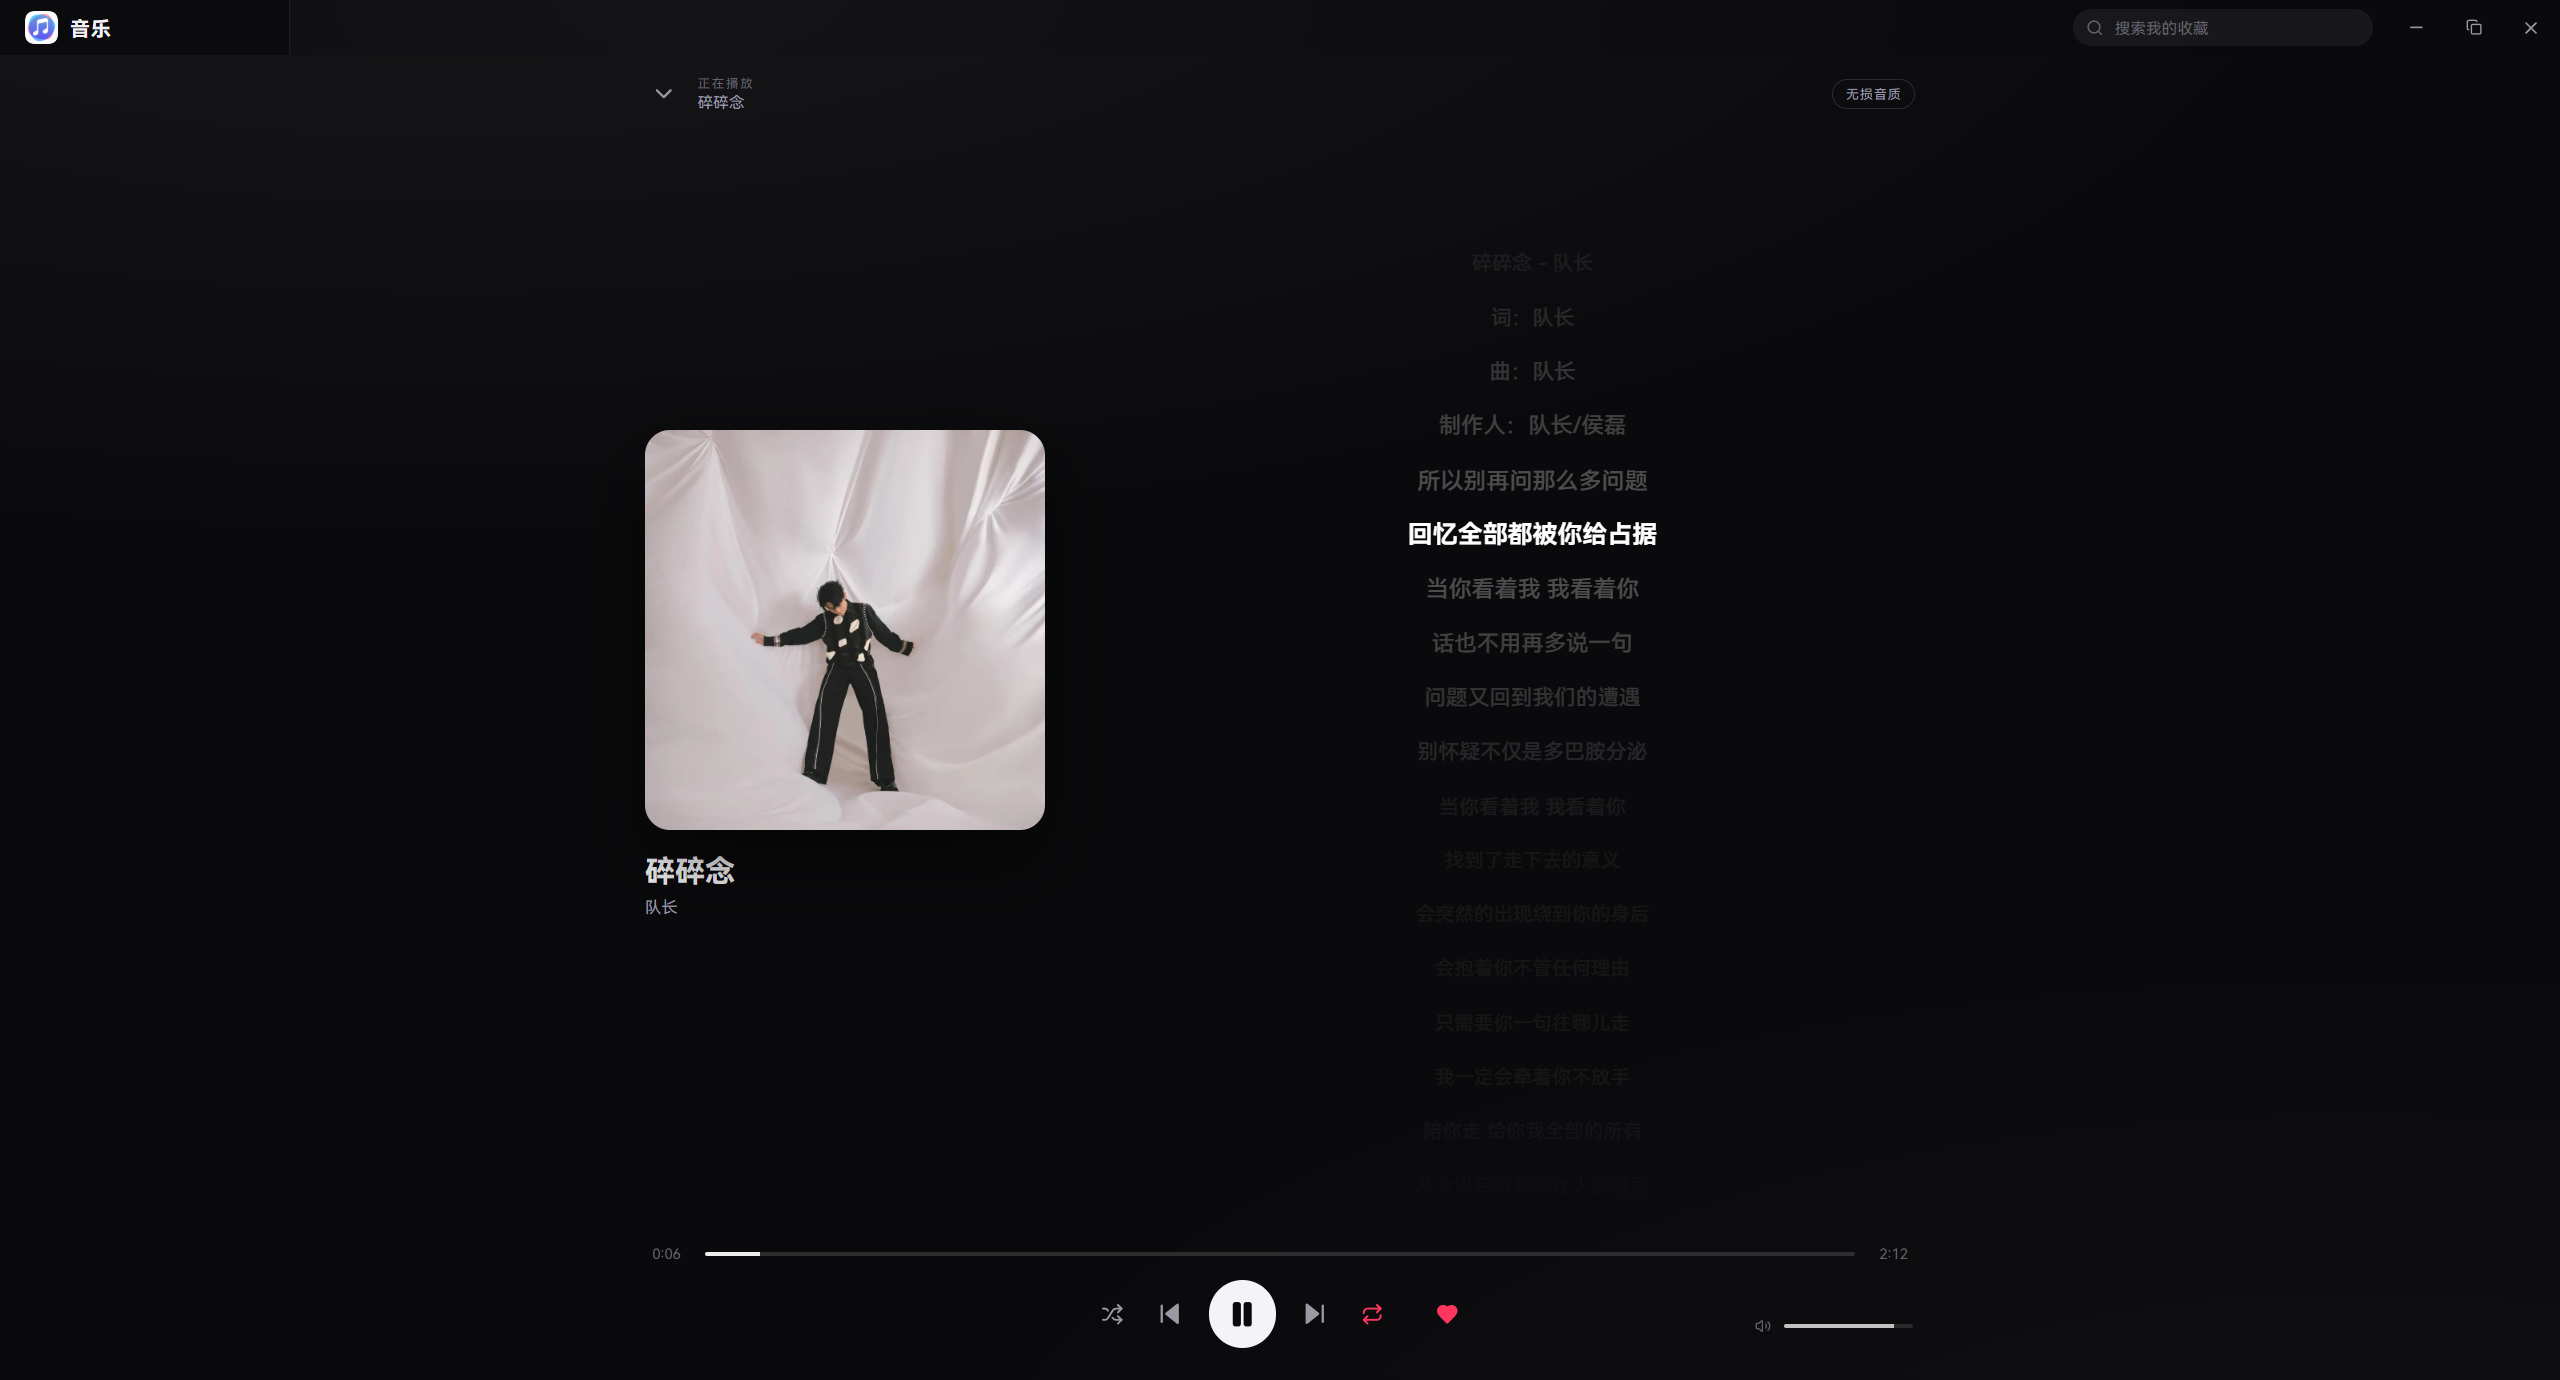
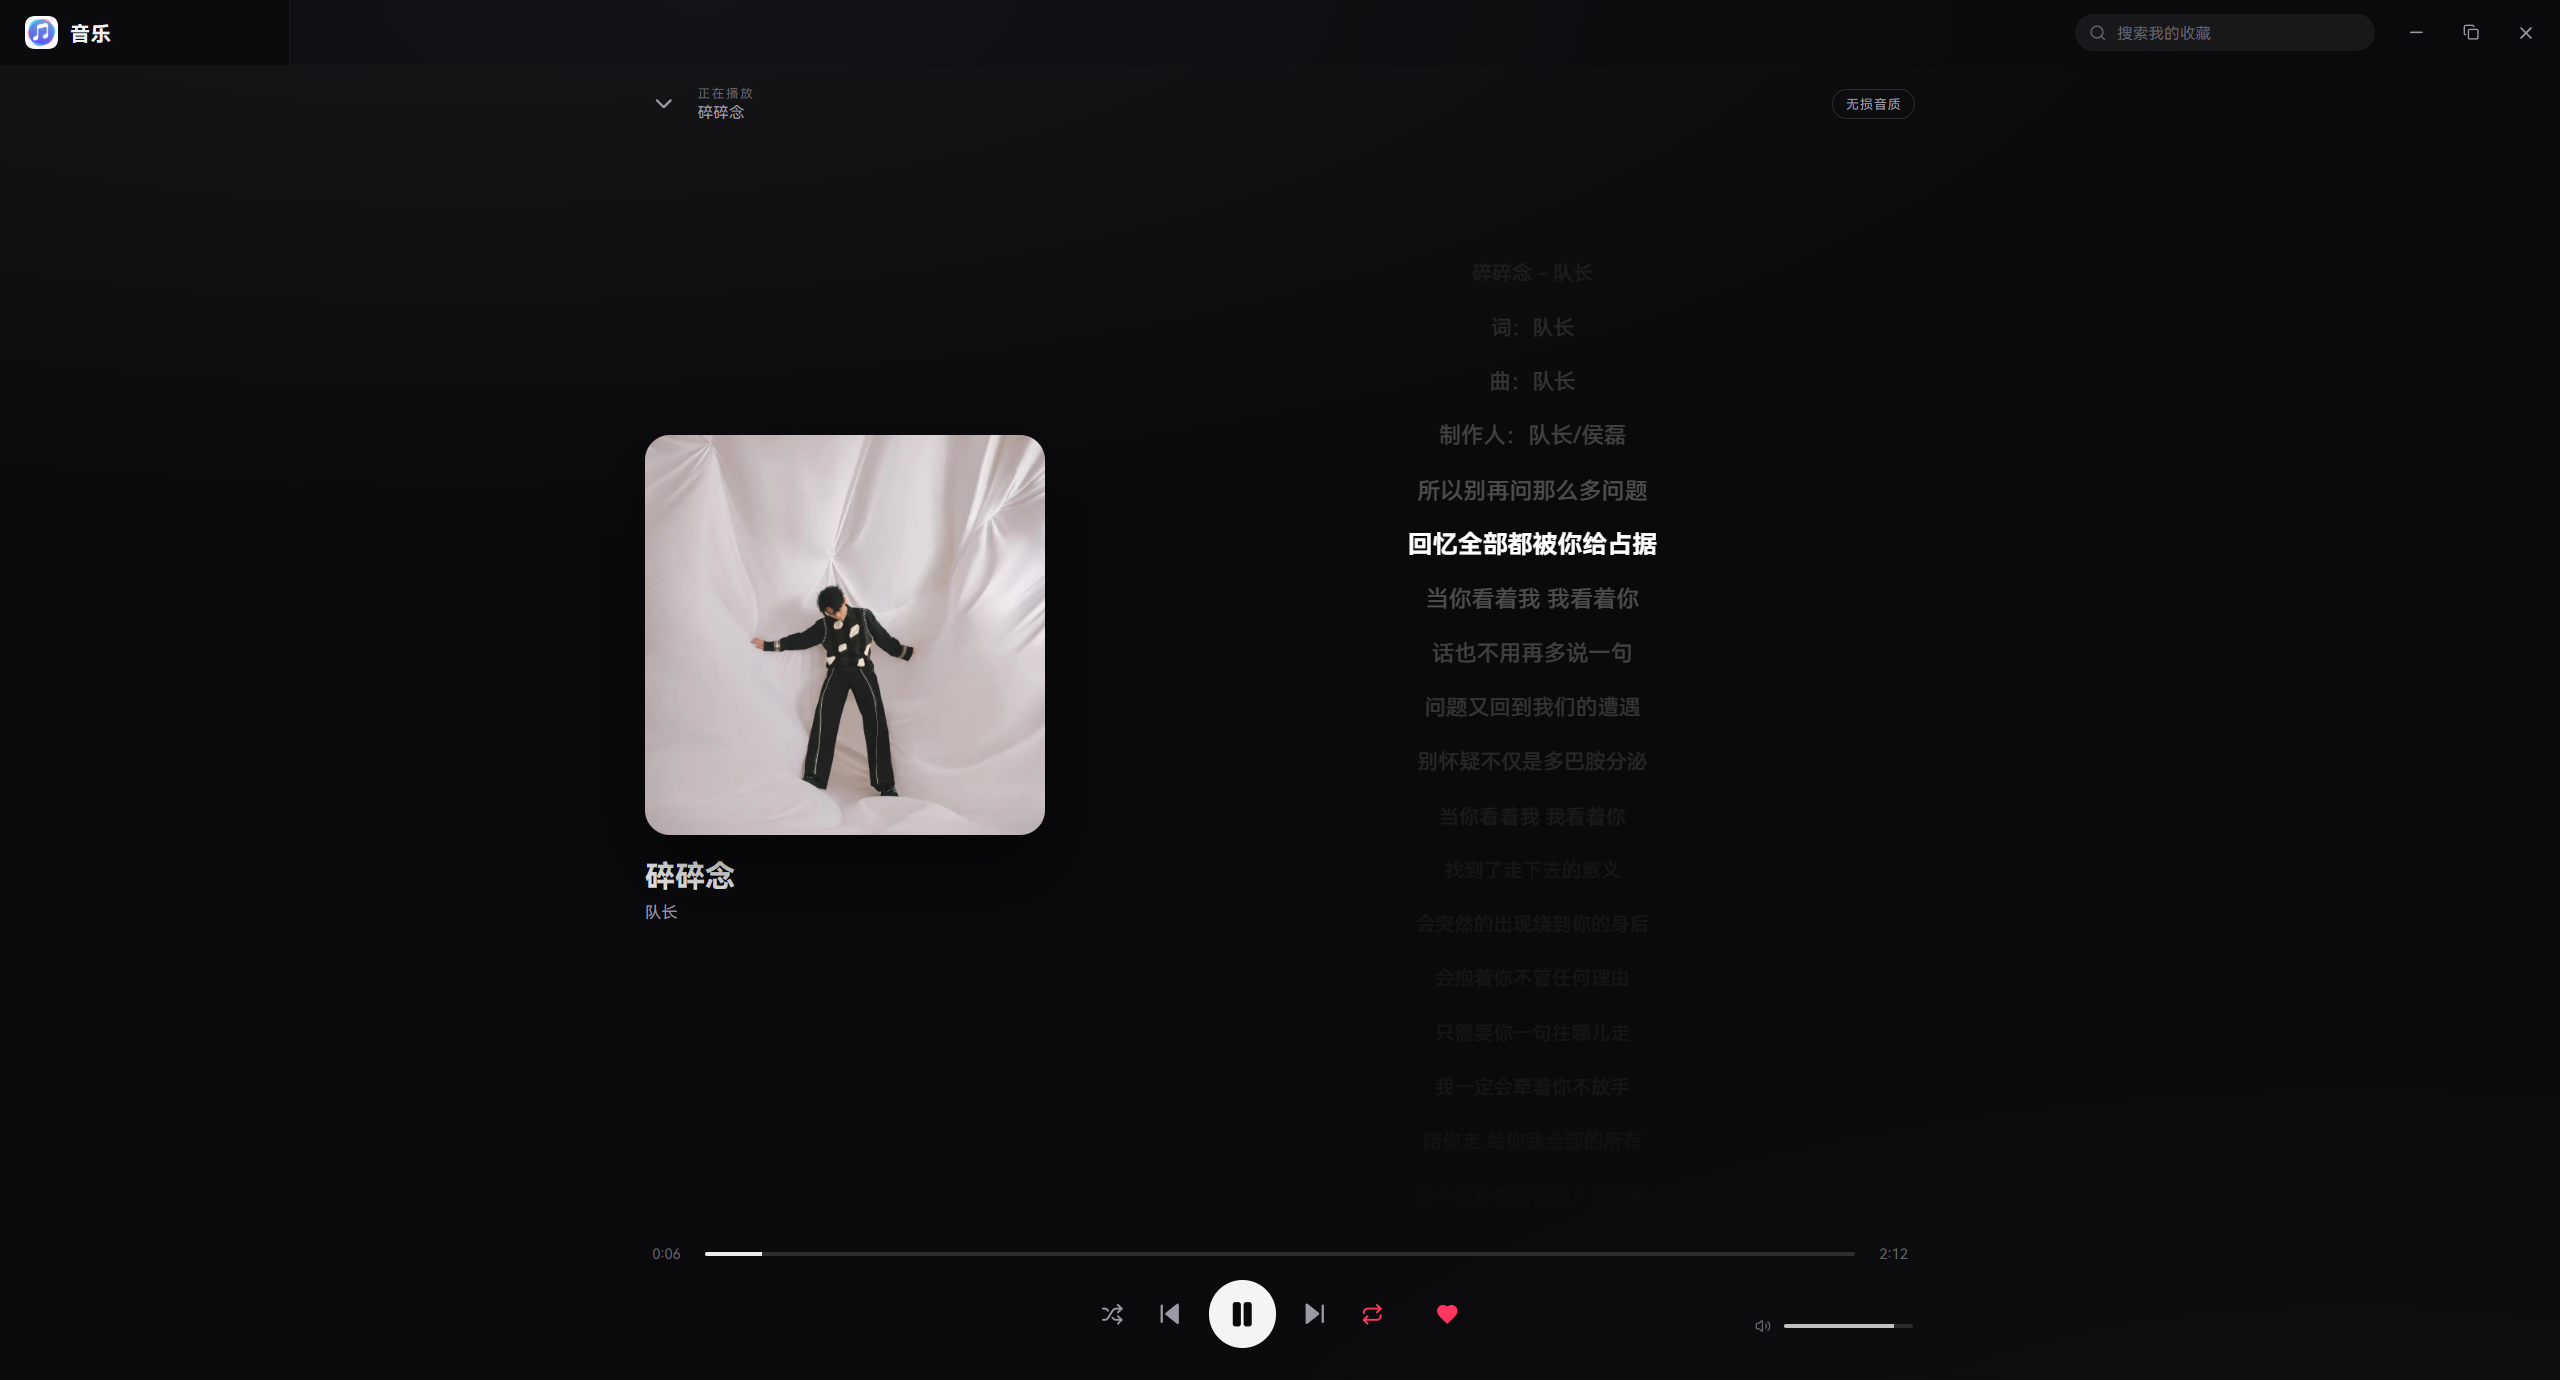
polish(shell): 标题栏加高到 52px，窗口按钮内缩留白
- --titlebar 44 → 52，品牌/搜索/窗口按钮整体下移，顶部留 11px 余量
- 窗口按钮改为 42x30 圆角，不再贴顶贴边，悬停底色不压窗口圆角
- 登录条高度与 LOGIN_VIEW_TOP_INSET 同步为 52
- 更新两套截图与文档

diff --git a/src/renderer/styles.css b/src/renderer/styles.css
@@ -21,7 +21,7 @@
   --radius-md: 10px;
   --radius-sm: 7px;
   --sidebar: 232px;
-  --titlebar: 44px;
+  --titlebar: 52px;
   --playerbar: 76px;
 }
 
@@ -261,7 +261,7 @@ input {
   align-items: center;
   justify-content: flex-end;
   gap: 12px;
-  padding-left: 22px;
+  padding: 0 6px 0 22px;
   height: var(--titlebar);
   min-width: 0;
 }
@@ -316,15 +316,17 @@ input {
 .window-controls {
   -webkit-app-region: no-drag;
   display: flex;
-  align-self: stretch;
+  align-self: center;
+  gap: 2px;
 }
 
 .window-button {
-  width: 46px;
-  height: 100%;
+  width: 42px;
+  height: 30px;
   display: grid;
   place-items: center;
   border: none;
+  border-radius: var(--radius-sm);
   background: transparent;
   color: var(--muted);
   cursor: pointer;
@@ -1442,7 +1444,7 @@ section {
   top: 0;
   left: 0;
   right: 0;
-  height: 48px;
+  height: var(--titlebar);
   z-index: 60;
   display: flex;
   align-items: center;

diff --git a/src/main/huawei.ts b/src/main/huawei.ts
@@ -1,4 +1,4 @@
-import { randomBytes } from 'node:crypto';
+import { randomBytes } from 'node:crypto';
 import { session as electronSession, WebContentsView } from 'electron';
 import { electronBypassRules, proxyRules, readProxySettings } from './proxy.mjs';
 import { createAttempt, exchangeCode, exchangeMusicSession, isAllowedLoginUrl, isCallback } from '../auth.mjs';
@@ -35,7 +35,7 @@ export function tracksFromFavorites(response: any): Track[] {
 // The official page is hosted in a WebContentsView inside the main window instead of a second OS
 // window. Isolation is unchanged: no preload, no Node, its own temporary partition. The top strip
 // stays with the app so the user always has a visible way to cancel.
-export const LOGIN_VIEW_TOP_INSET = 48;
+export const LOGIN_VIEW_TOP_INSET = 52;
 
 export type LoginHost = {
   parent: Electron.BrowserWindow;

diff --git a/README.md b/README.md
@@ -100,7 +100,7 @@ src/
 | 鸿蒙电脑版 | 这里的实现 |
 |---|---|
 | 左侧四项导航（首页/音乐厅/café听/我的） | 首页 / 我的收藏，登录状态收在底部账号块 |
-| 顶部是系统标题栏 | **无边框自绘标题栏**（44px）：拖拽区 + 搜索 + 最小化/最大化/关闭，没有系统白条 |
+| 顶部是系统标题栏 | **无边框自绘标题栏**（52px，上留白更松）：拖拽区 + 搜索 + 最小化/最大化/关闭，没有系统白条 |
 | 音乐厅：大 banner + 筛选胶囊 + 横滑卡片 | 首页：继续听横幅（用当前封面做底图）+ 最近播放横滑 + 收藏速览 |
 | 播放是浮动小窗，左封面右歌词 | 全屏播放页，左封面右歌词居中排布，`Esc` 收起 |
 | 播放条常驻底部、克制 | 76px 常驻播放条，2px 进度线，右侧音量，不抢内容 |
